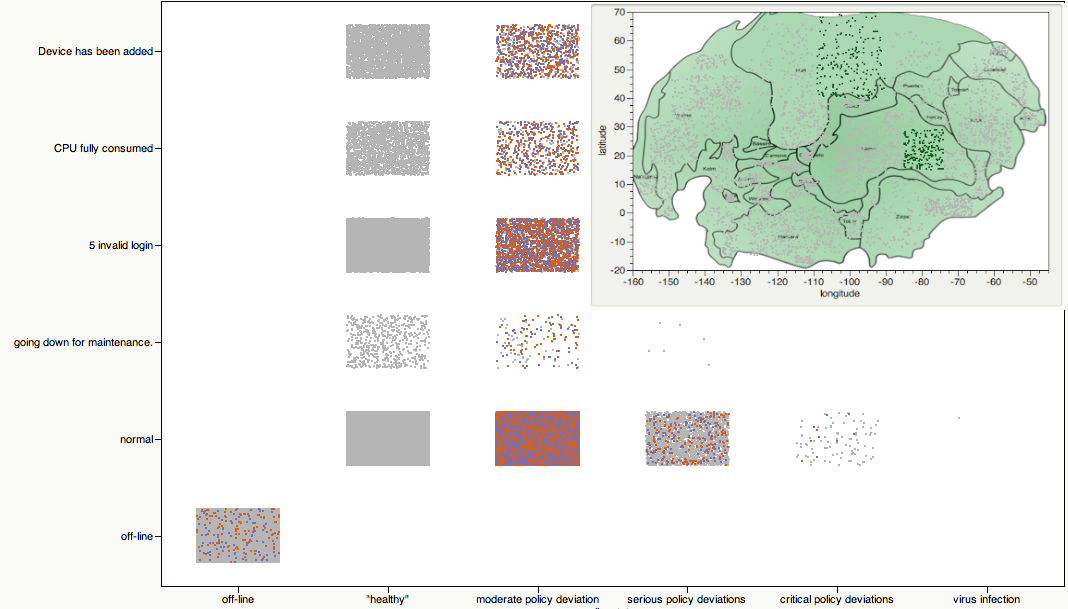
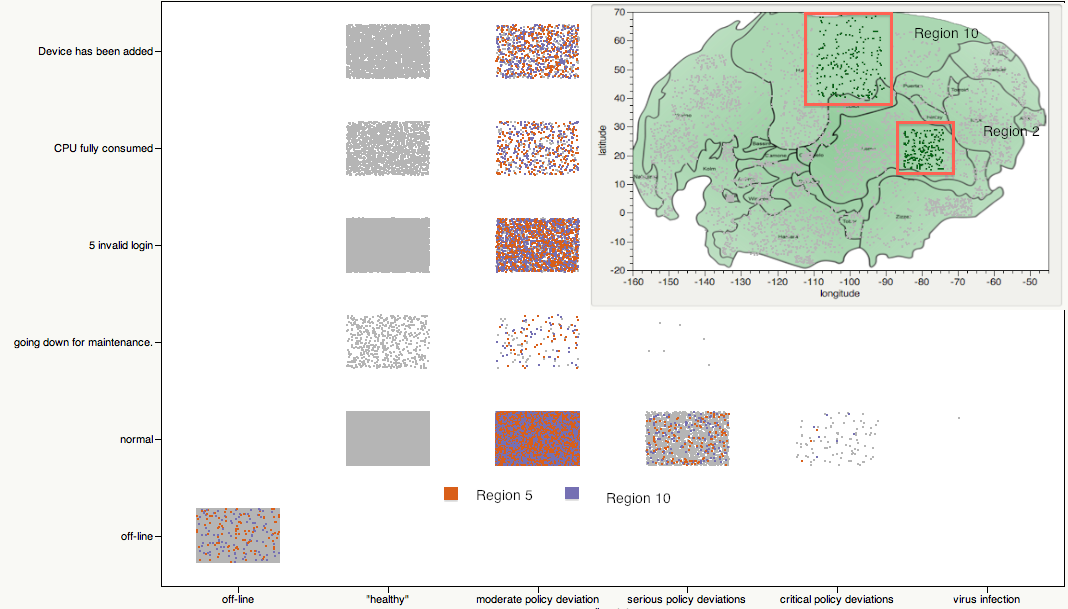
new version

diff --git a/index.html b/index.html
@@ -243,12 +243,27 @@ div.WordSection1 {
 			</span></b>
 		</p>
 		<p class="MsoNormal">
-			<i style=""><span
-				style="font-family: &amp; amp; quot; Calibri &amp;amp; quot; ,&amp; amp; quot; sans-serif &amp;amp; quot;; color: black; background: yellow">Provide
-					a Short Answer.<span style="">&nbsp;&nbsp; </span>(See Submission
-					Instructions 2.6)
-			</span></i><i style="">
-			<p class=MsoNormal><span lang=EN-US style='mso-ansi-language:EN-US'>&nbsp;</span></p>
+			<p class="MsoNormal">
+				<span style="font-family: &amp; amp;">&nbsp;</span>
+			</p>
+			<i style="">
+
+			<p class=MsoNormal>
+				<span lang=EN-US style='mso-ansi-language:EN-US'>&nbsp;
+					We discovered two areas of concern. One is offline machines and the other is non normal status policy in two large regions. 
+				</span>
+			</p>
+
+			<p class=MsoNormal>
+				<span lang=EN-US style='mso-ansi-language:EN-US'>&nbsp;
+					There are 79761 offline machines at 2 pm BMT (see figure 1.1.1). These means machines without policy status and activity flag information.
+				</span>
+			</p>
+			<p class="MsoNormal">
+				<span style="font-family: &amp; amp;">&nbsp;</span>
+			</p>
+
+
 
 			<p class=MsoNormal align=center style='text-align:center'><a href="images/MC.1.1.1.png">
 				<span style='color:black;mso-no-proof: yes;text-decoration:none;text-underline:none'>
@@ -260,6 +275,21 @@ div.WordSection1 {
 				<span lang=EN-US style='font-size:11.0pt;mso-ansi-language:EN-US'>Figure 1.1.1</span>
 			</p>
 
+			<p class="MsoNormal">
+				<span style="font-family: &amp; amp;">&nbsp;</span>
+			</p>
+			<p class="MsoNormal">
+				<span style="font-family: &amp; amp;">&nbsp;</span>
+			</p>
+			<p class=MsoNormal>
+				<span lang=EN-US style='mso-ansi-language:EN-US'>&nbsp;
+					We discovered most of those offline machines(62%) belong to datacenter 5 and they are highlighted in the Scatterplot matrix using blue points. (See figure 1.1.2). To the other side the rest of those offline machines are workstations and their local time is less than 7 am. This is a correct behaviour acording to the rules beacuse it is not a bussiness hour. See bar plot.
+				</span>
+			</p>
+			<p class="MsoNormal">
+				<span style="font-family: &amp; amp;">&nbsp;</span>
+			</p>
+
 			<p class=MsoNormal align=center style='text-align:center'><a href="images/MC.1.1.2.png">
 				<span style='color:black;mso-no-proof: yes;text-decoration:none;text-underline:none'>
 					<img border=0 width=844 height=507 id="_x0000_i1033" src="images/MC.1.1.2.png">
@@ -268,6 +298,21 @@ div.WordSection1 {
 			</p>
 			<p class=MsoNormal align=center style='text-align:center'>
 				<span lang=EN-US style='font-size:11.0pt;mso-ansi-language:EN-US'>Figure 1.1.2</span>
+			</p>
+
+			<p class="MsoNormal">
+				<span style="font-family: &amp; amp;">&nbsp;</span>
+			</p>
+			<p class="MsoNormal">
+				<span style="font-family: &amp; amp;">&nbsp;</span>
+			</p>
+			<p class=MsoNormal>
+				<span lang=EN-US style='mso-ansi-language:EN-US'>&nbsp;
+					The second area region 5 and region 10 don't have any machine with policy status 1 (healthy). (See figure 1.1.3) Both are large regions and we are showing their location in the Bank World map. Region 2 has 40621 machines and regions 10 has 41317 machines. Most of them have policy status 2. See the third column in the scatterplot.
+				</span>
+			</p>
+			<p class="MsoNormal">
+				<span style="font-family: &amp; amp;">&nbsp;</span>
 			</p>
 
 			<p class=MsoNormal align=center style='text-align:center'><a href="images/MC.1.1.3.png">
@@ -283,43 +328,13 @@ div.WordSection1 {
 			<span
 				style="font-family: &amp; amp; quot; Calibri &amp;amp; quot; ,&amp; amp; quot; sans-serif &amp;amp; quot;; color: black">
 
-					<table>
-						<tr>
-							<th>Descubrimiento</th>
-							<th>Explicacion</th>
-						</tr>
-						<tr>
-							<td>Regiones con policiy status mayores a dos </td>
-							<td>En todos estos casos no hay ningun activity flag en estado 1</td>
-						</tr>
-						<tr>
-							<td>Workstation fuera del horario de bussines time</td>
-							<td>Existen algunas workstations con reporte de eventos en horario fuera de joranada laboral</td>
-						</tr>
-						<tr>
-							<td>Una sola maquina con policiy status 5</td>
-							<td>Existe solo una computadora con status policy infect. Su activity flag sin embargo es 1 y pertenece a datacentre 2</td>
-						</tr>
-						<tr>
-							<td>Maquinas sin eventos </td>
-							<td>La mayoria de estas son servers (cual datacenter ?)</td>
-						</tr>
-						<tr>
-							<td>Hay workstation que no reportan dentro del horario laboral (bussiness time)</td>
-							<td></td>
-						</tr>
-						<tr>
-							<td>Maquina infectada a las 14 hs (con policiy status = 5)</td>
-							<td>Mantiene el estado 5 durante hasta el final</td>
-						</tr>
-						<tr>
-							<td>Dos regiones con todas las maquinas con policiy status entre 2 y 4</td>
-							<td></td>
-						</tr>
-					</table> 
+				
 
 
-			</span></i>
+
+			</span>
+			</i>
+
 		</p>
 		<p class="MsoNormal">
 			<b style=""><span
